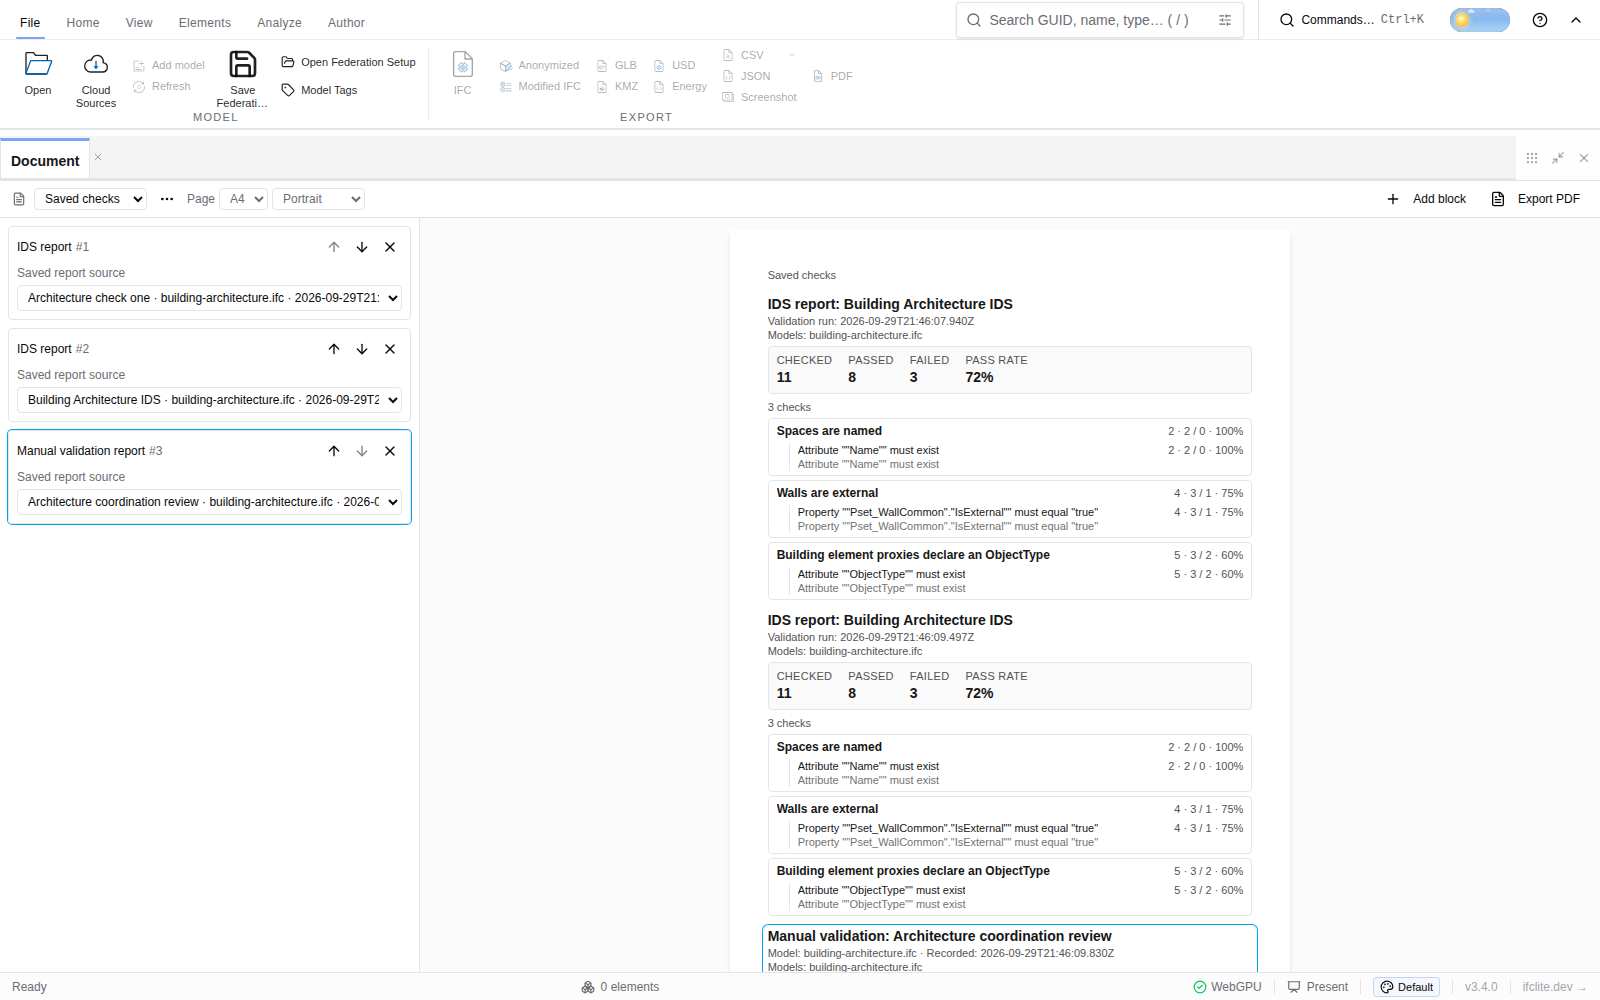
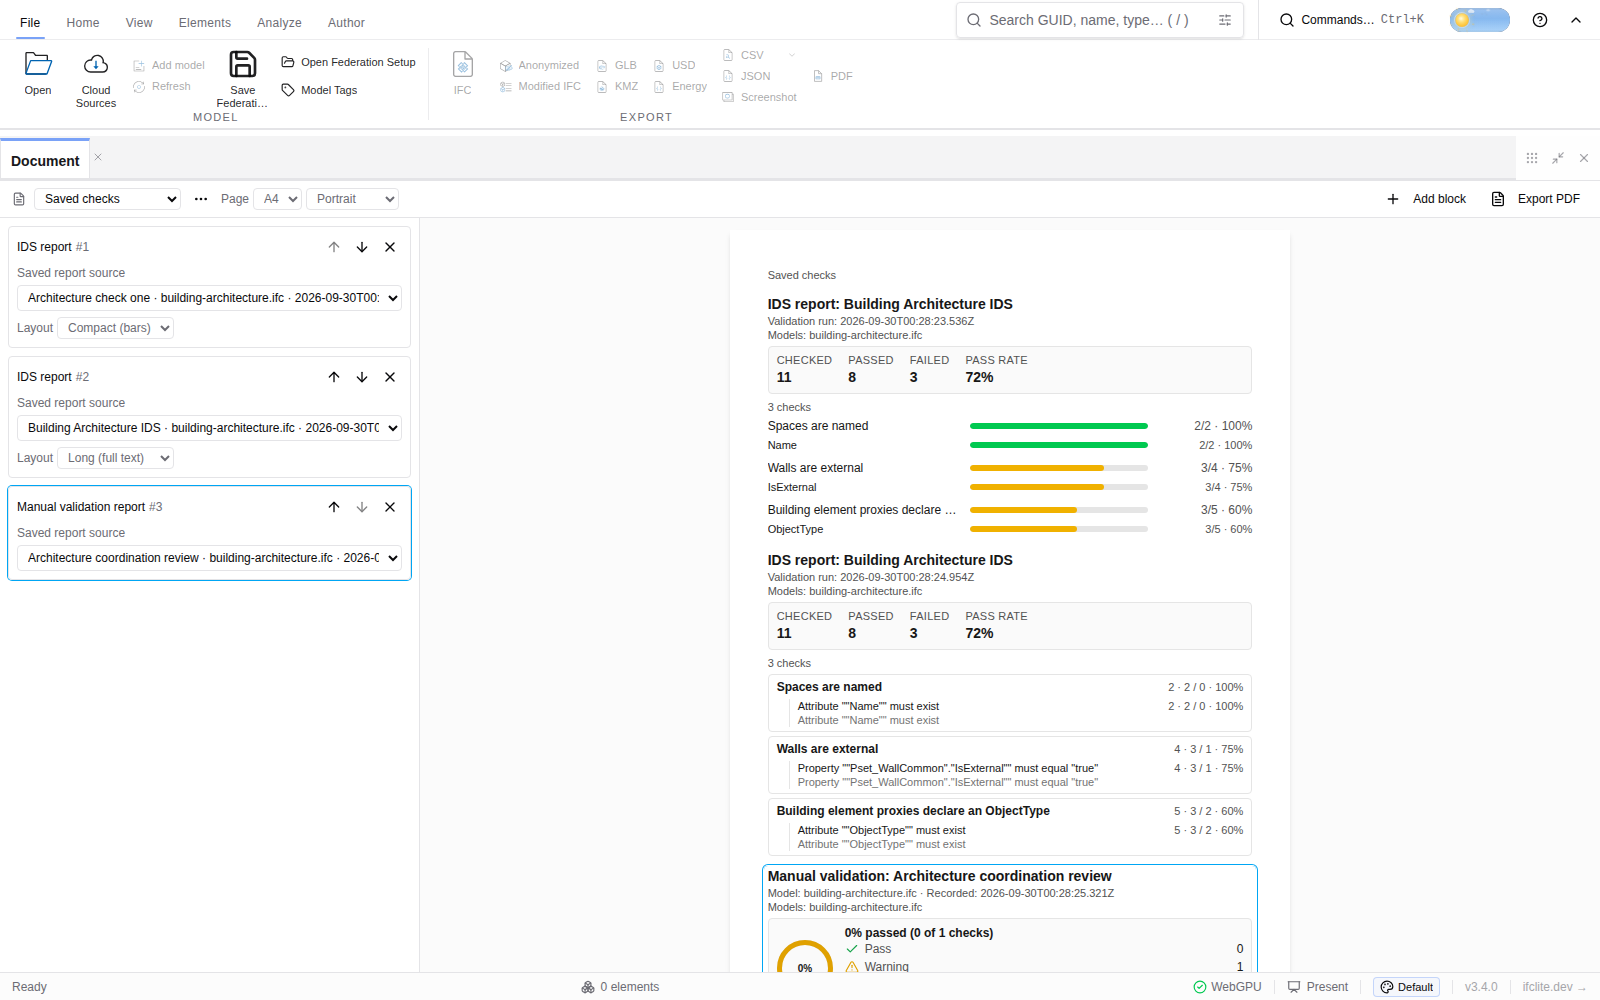
docs(viewer): refresh evaluated scope and saved-layout browser evidence (#6500)

diff --git a/docs/architecture/evidence/saved-validation-reports-6500/README.md b/docs/architecture/evidence/saved-validation-reports-6500/README.md
@@ -2,9 +2,12 @@
 
 The Chromium witness loads the committed [building-architecture.ifc](https://github.com/LTplus-AG/ifc-lite/blob/326e124cf894bbaec7e56dc5126b16b07d123566/apps/viewer/public/samples/building-architecture.ifc) sample exported by IFC-manager for SketchUp and SketchUp 2024. It runs the associated IDS twice through the actual validation UI, renames the first saved report, and records a manual coordination warning and comment against that loaded model through the canonical checklist actions and the real **Save report** button.
 
-After navigating to a fresh viewer with no loaded model or working checklist, Documentation inserts all three independently selected reports. The latest history entry is manual; selecting each earlier IDS result exercises changing report kind through the same picker. The exported PDF retains the original model name, manual checklist name and comment.
+After navigating to a fresh viewer with no loaded model or working checklist, Documentation inserts all three independently selected reports. The latest history entry is manual; selecting each earlier IDS result exercises changing report kind through the same picker. Frozen IDS blocks expose original, compact and long presentation choices; choosing another saved IDS result preserves the selected presentation. The exported PDF retains the original model name, manual checklist name and comment.
+
+The same browser run also renames the loaded model after evaluation, then inserts and refreshes a live IDS block. Both operations retain the name captured at evaluation, rather than relabeling old evidence with the renamed current model.
 
 - [Saved history after two IDS runs and a manual review](saved-real-ifc-check-history.png)
+- [Live IDS scope retained after model rename](live-evaluated-scope-after-model-rename.png)
 - [Three independent document blocks with no live model](saved-checks-document-no-live-model.png)
 - [Maximized document with all three report source selectors](saved-checks-document-maximized.png)
 - [Actual exported PDF](saved-checks-document.pdf)
@@ -17,4 +20,4 @@ PLAYWRIGHT_PORT=6650 pnpm exec playwright test tests/e2e/document-text.e2e.spec.
 
 The full spec also covers browser PDF text extraction, document pop-out rename/cancel/Escape, and named model fields with real authored PDF page breaks. The saved-report regression asserts source identifiers and model count as well as extracted text from the downloaded PDF; the screenshots supplement those assertions.
 
-On 2026-09-29, all four Chromium tests passed (52.4s). A further saved-report run with the maximized screenshot passed (27.6s). The real IDS result was 11 checked, 8 passed, 3 failed (72%); the manual review records one warning with `Confirm survey origin`. These are observed outputs from the public sample, not expected values inferred from screenshots.
+On 2026-09-30, all four Chromium tests passed (52.5s) on integrated production head `ef87480aec770d039691c25e090f0f7cb816c95e`, including live Add/Refresh scope after model rename and compact/long frozen report source changes. The real IDS result was 11 checked, 8 passed, 3 failed (72%); the manual review records one warning with `Confirm survey origin`. These are observed outputs from the public sample, not expected values inferred from screenshots.
